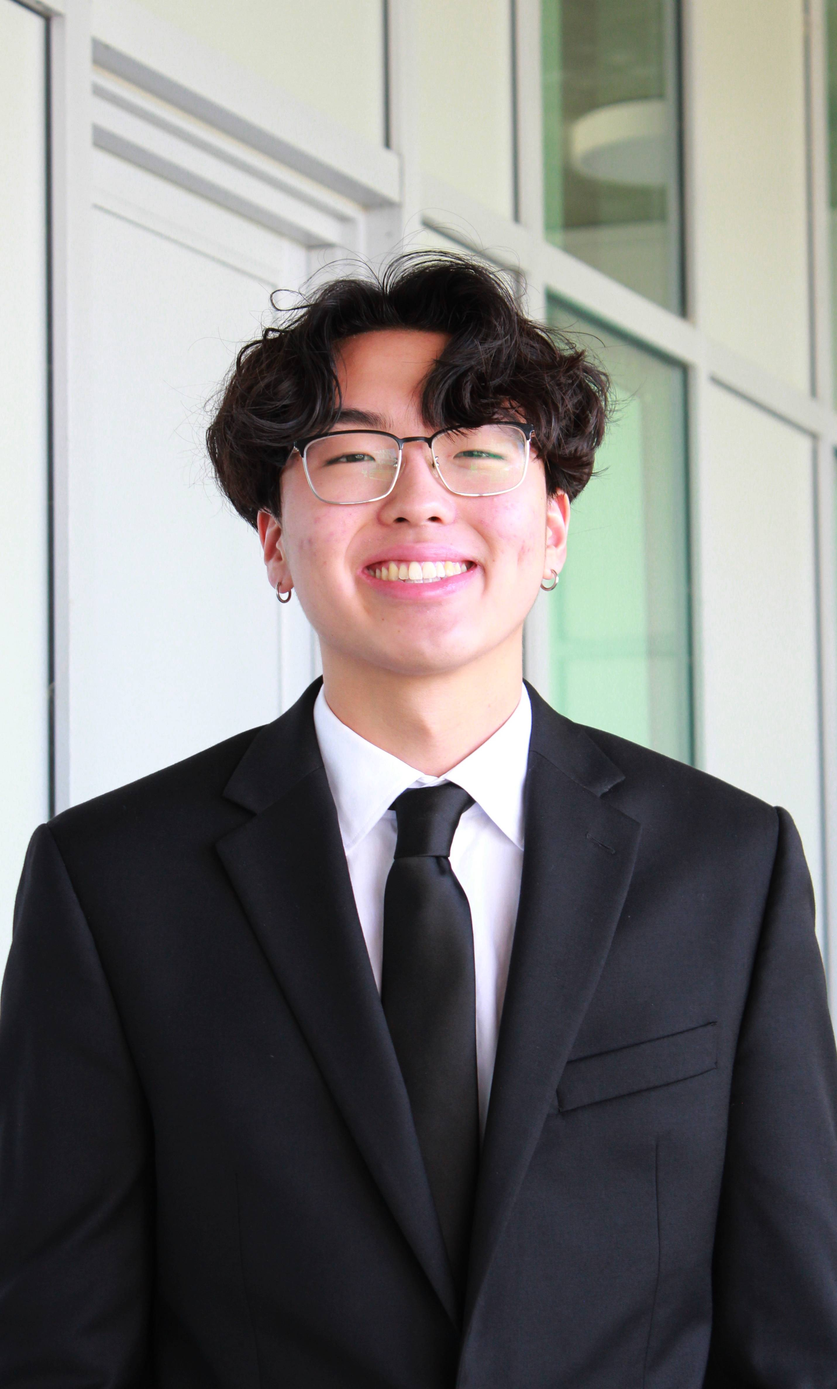
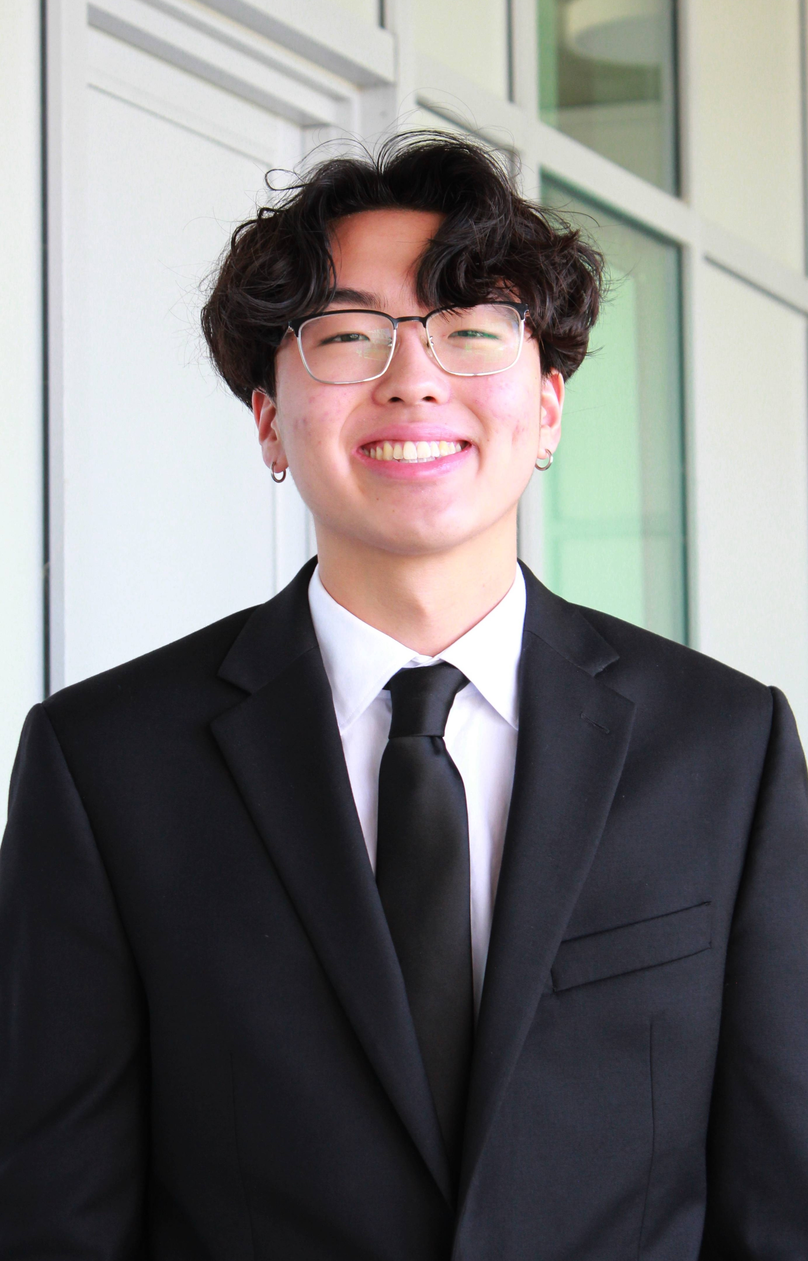
updated images

diff --git a/src/pages/about.js b/src/pages/about.js
@@ -10,9 +10,9 @@ import CenterHeader from "../components/CenterHeader"
 import ResponsiveDoughnut from "../components/ResponsiveDoughnut"
 import Section from "../components/Section"
 
-import professionalismImage from "../images/professionalism.jpg"
-import communityImage from "../images/communityService.jpg"
-import ALs from "../images/alpha_lambdas.jpeg"
+import professionalismImage from "../images/professionalism_2024.jpg"
+import communityImage from "../images/community_service_hype.jpg"
+import seniors from "../images/seniors.jpeg"
 
 import { Helmet } from "react-helmet"
 
@@ -101,7 +101,7 @@ export default () => (
         <ResponsiveDoughnut data={majorData} legendLines={2} text="Major" />
       </Section>
 
-      <ImageTextRow title="Brotherhood" imagePosition="right" imageSrc={ALs}>
+      <ImageTextRow title="Brotherhood" imagePosition="right" imageSrc={seniors}>
         Our community has cultivated mentorship, inspiration, and countless
         opportunities to learn and grow. Our brothers have built lifelong
         friendships—not only within our chapter, but with brothers in many of

diff --git a/src/pages/careers.js b/src/pages/careers.js
@@ -14,7 +14,7 @@ export default ({ data }) => (
     coverElement={
       <ImageCover
         text="Careers"
-        coverImage="careers_2023.png"
+        coverImage="careers_2024.png"
         textColor="white"
         darkGradient
       />
